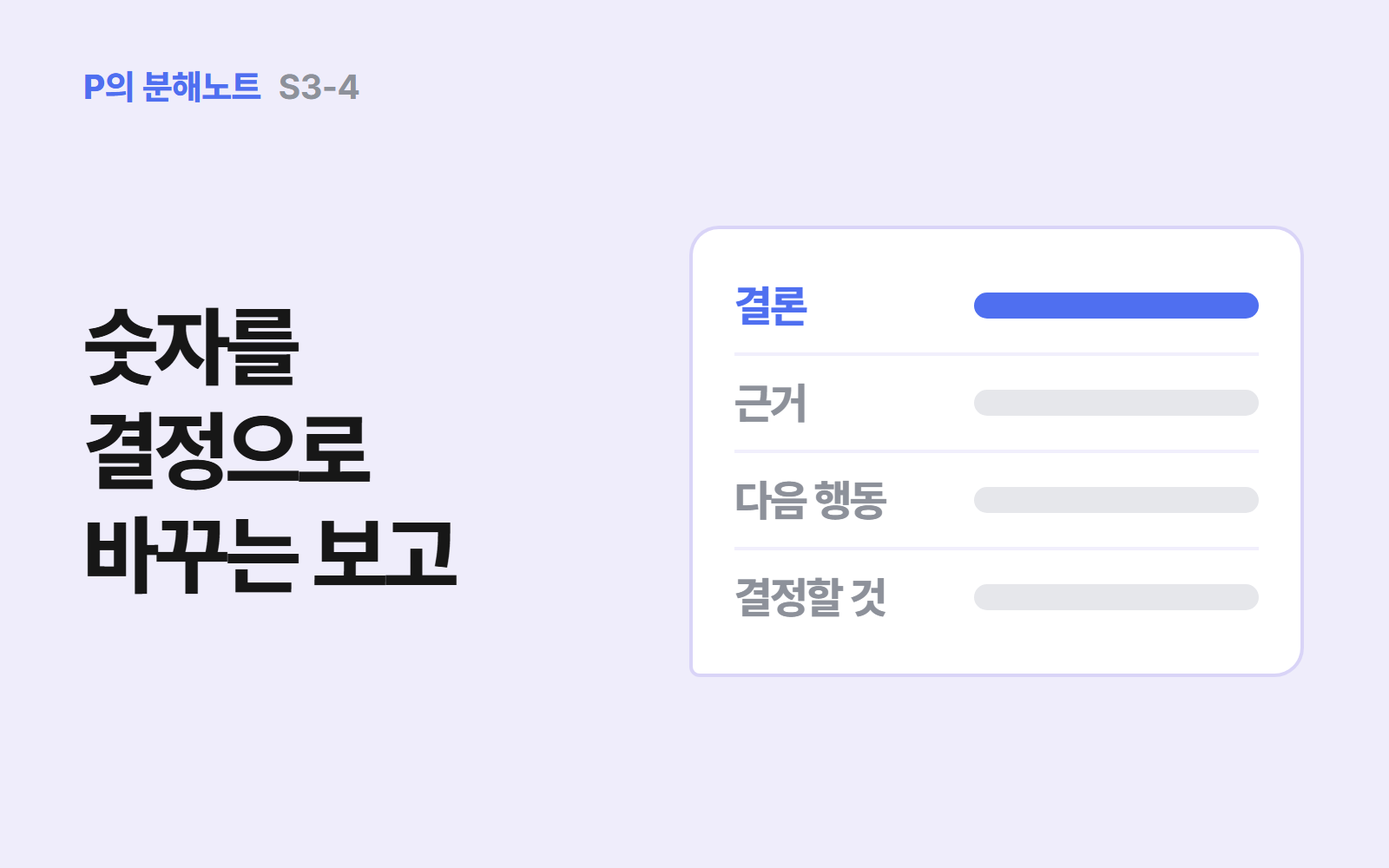
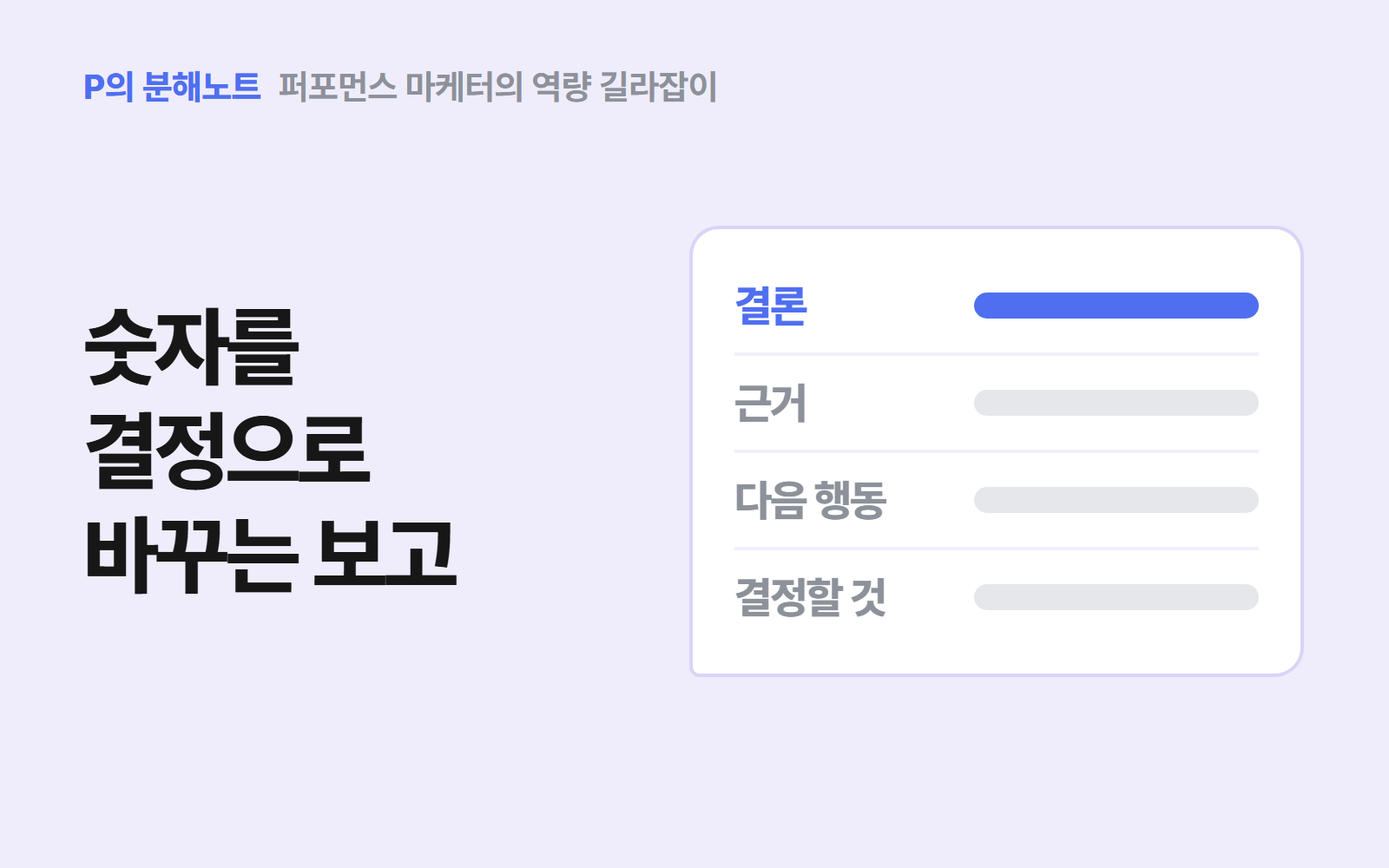
본문 링크와 표지의 편 번호(EP·S2·S3)를 글 제목과 길라잡이 이름으로 정리

Changed region(s): [[0.1875, 0.062, 0.5312, 0.124]]

diff --git a/src/content/posts/marketer-media-understanding.md b/src/content/posts/marketer-media-understanding.md
@@ -18,7 +18,7 @@ draft: false
 - 매체 기능 이름·정책은 자주 바뀜. 발행 전 공식 도움말로 한 번 더 확인
 -->
 
-[EP.02](/posts/what-does-performance-marketer-do)에서 매체 이해를 "같은 돈을 어디에 쓸지 아는 힘"이라고 했습니다. 이번 글에서는 그 힘을 **매체의 성격, 광고가 팔리는 방식, 예산을 나누는 순서, 자동화를 다루는 법**으로 쪼갭니다.
+[퍼포먼스 마케터가 하는 일](/posts/what-does-performance-marketer-do)에서 매체 이해를 "같은 돈을 어디에 쓸지 아는 힘"이라고 했습니다. 이번 글에서는 그 힘을 **매체의 성격, 광고가 팔리는 방식, 예산을 나누는 순서, 자동화를 다루는 법**으로 쪼갭니다.
 
 <!-- [P] 처음 맡은 매체와, 그 매체에서 가장 헷갈렸던 것 한두 문장. -->
 
@@ -34,11 +34,11 @@ draft: false
 | 동영상 | 유튜브 | 콘텐츠를 볼 때 | 제품 이해, 기억 남기기 | 클릭 기준으로만 재면 저평가 |
 | 디스플레이 | 구글 디스플레이, 카카오 | 다른 페이지를 볼 때 | 리타겟팅, 넓은 노출 | 노출 위치와 유입 품질 확인 |
 
-[S2-1](/posts/ad-agency-market-structure)에서 본 것처럼, 같은 매체 안에서도 **경매형 상품**과 **보장형 상품**(정해진 노출·자리를 사는 것)은 사는 방식이 다릅니다.
+[광고대행사와 미디어렙의 구조](/posts/ad-agency-market-structure)에서 본 것처럼, 같은 매체 안에서도 **경매형 상품**과 **보장형 상품**(정해진 노출·자리를 사는 것)은 사는 방식이 다릅니다.
 
 ## 기본 2. 광고는 경매와 과금 방식으로 팔린다
 
-대부분의 퍼포먼스 광고는 경매로 노출이 정해집니다. 핵심은 **입찰가만 높다고 이기지 않는다**는 점입니다. 매체는 입찰가와 함께 "이 광고를 보여 주면 사람들이 반응할까"를 같이 봅니다. 그래서 반응이 좋은 광고는 같은 입찰가로도 더 싸게, 더 많이 노출됩니다. 경매가 어떻게 돌아가는지는 [EP.04](/posts/will-ai-replace-performance-marketer)에서 더 자세히 다뤘습니다.
+대부분의 퍼포먼스 광고는 경매로 노출이 정해집니다. 핵심은 **입찰가만 높다고 이기지 않는다**는 점입니다. 매체는 입찰가와 함께 "이 광고를 보여 주면 사람들이 반응할까"를 같이 봅니다. 그래서 반응이 좋은 광고는 같은 입찰가로도 더 싸게, 더 많이 노출됩니다. 경매가 어떻게 돌아가는지는 [AI 시대의 퍼포먼스 마케터](/posts/will-ai-replace-performance-marketer)에서 더 자세히 다뤘습니다.
 
 돈을 내는 기준도 상품마다 다릅니다.
 
@@ -53,7 +53,7 @@ draft: false
 
 ## 기본 3. 계정 구조가 곧 운영 단위다
 
-캠페인, 광고그룹(광고 세트), 광고의 세 층으로 나뉘고, 어느 층에서 무엇을 정하는지는 매체마다 조금씩 다릅니다([EP.02](/posts/what-does-performance-marketer-do) 세팅 단계). 구조를 잘게 쪼갤수록 통제는 쉬워지지만, 묶음마다 데이터가 적어져 자동화가 배우기 어려워집니다. 반대로 크게 묶으면 자동화는 잘 배우지만 무엇이 잘됐는지 보기 어렵습니다. **보고 싶은 단위와 자동화가 배우기 좋은 크기 사이에서 균형**을 잡는 게 구조 설계입니다.
+캠페인, 광고그룹(광고 세트), 광고의 세 층으로 나뉘고, 어느 층에서 무엇을 정하는지는 매체마다 조금씩 다릅니다([퍼포먼스 마케터가 하는 일](/posts/what-does-performance-marketer-do) 세팅 단계). 구조를 잘게 쪼갤수록 통제는 쉬워지지만, 묶음마다 데이터가 적어져 자동화가 배우기 어려워집니다. 반대로 크게 묶으면 자동화는 잘 배우지만 무엇이 잘됐는지 보기 어렵습니다. **보고 싶은 단위와 자동화가 배우기 좋은 크기 사이에서 균형**을 잡는 게 구조 설계입니다.
 
 ## 실전 1. 매체를 고르고 예산을 나누는 순서
 
@@ -69,18 +69,18 @@ draft: false
 
 요즘 매체 운영의 많은 부분은 자동 입찰과 자동 타깃팅입니다. 사람이 할 일은 **자동화에 좋은 재료를 주고, 결과를 검증하는 것**입니다.
 
-- **좋은 신호를 준다**: 자동화는 우리가 "전환"이라고 알려 준 것을 늘립니다. 가짜 전환(중복, 장바구니 오분류)이 섞이면 그쪽을 늘립니다. ([EP.04](/posts/will-ai-replace-performance-marketer)의 장바구니 사례)
+- **좋은 신호를 준다**: 자동화는 우리가 "전환"이라고 알려 준 것을 늘립니다. 가짜 전환(중복, 장바구니 오분류)이 섞이면 그쪽을 늘립니다. ([AI 시대의 퍼포먼스 마케터](/posts/will-ai-replace-performance-marketer)의 장바구니 사례)
 - **목표를 급하게 바꾸지 않는다**: 목표 CPA나 예산을 한 번에 크게 바꾸면 다시 학습에 들어갈 수 있습니다. 조금씩, 간격을 두고 바꿉니다.
 - **너무 잘게 쪼개지 않는다**: 묶음마다 전환이 너무 적으면 자동화가 배울 데이터가 부족합니다.
 - **제외할 것을 정한다**: 이미 산 고객, 브랜드 검색어, 원하지 않는 노출 위치처럼 자동화에 맡기면 안 되는 범위를 사람이 정합니다.
 
 ## 심화 1. 매체가 보고하는 숫자를 그대로 믿지 않는다
 
-매체는 자기 광고를 본 뒤 생긴 전환을 넓게 셉니다. 그래서 매체 숫자를 다 더하면 실제 주문보다 많아지는 일이 흔합니다. 매체 숫자는 **매체 안에서 비교할 때** 쓰고, 매체끼리 예산을 나눌 때는 GA4나 주문 데이터, 증분 테스트를 함께 봅니다. 왜 숫자가 다른지는 [S2-4](/posts/why-ad-numbers-differ)에서 정리했습니다.
+매체는 자기 광고를 본 뒤 생긴 전환을 넓게 셉니다. 그래서 매체 숫자를 다 더하면 실제 주문보다 많아지는 일이 흔합니다. 매체 숫자는 **매체 안에서 비교할 때** 쓰고, 매체끼리 예산을 나눌 때는 GA4나 주문 데이터, 증분 테스트를 함께 봅니다. 왜 숫자가 다른지는 [GA4와 매체 전환 수가 다른 이유](/posts/why-ad-numbers-differ)에서 정리했습니다.
 
 ## 심화 2. 예산을 늘리면 효율은 떨어진다
 
-같은 매체에 돈을 두 배로 써도 전환이 두 배가 되지는 않습니다. 반응이 좋은 사람부터 먼저 만나기 때문에, 예산이 늘수록 **다음 1만 원이 데려오는 전환은 줄어듭니다**. 같은 사람에게 광고가 반복되는 빈도도 올라갑니다. 그래서 예산을 옮길 때는 평균 CPA가 아니라 **늘린 돈으로 늘어난 전환**을 봅니다. 계산 예시는 [S3-5 사업 이해 편](/posts/marketer-business-sense)에 있습니다.
+같은 매체에 돈을 두 배로 써도 전환이 두 배가 되지는 않습니다. 반응이 좋은 사람부터 먼저 만나기 때문에, 예산이 늘수록 **다음 1만 원이 데려오는 전환은 줄어듭니다**. 같은 사람에게 광고가 반복되는 빈도도 올라갑니다. 그래서 예산을 옮길 때는 평균 CPA가 아니라 **늘린 돈으로 늘어난 전환**을 봅니다. 계산 예시는 [사업 이해 편](/posts/marketer-business-sense)에 있습니다.
 
 ## 심화 3. 매체끼리 역할을 나눠 맡는다
 
@@ -111,4 +111,4 @@ draft: false
 
 다음 편에서는 무엇을 바꿔 볼지 정하는 **기획**을 쪼갭니다. 가설을 세우고, 테스트하고, 성과를 재는 방법입니다.
 
-→ [S3-3 퍼포먼스 마케팅 기획, 가설부터 성과 측정까지](/posts/marketing-hypothesis-testing)
+→ [퍼포먼스 마케팅 기획, 가설부터 성과 측정까지](/posts/marketing-hypothesis-testing)

diff --git a/src/content/posts/marketer-business-sense.md b/src/content/posts/marketer-business-sense.md
@@ -17,7 +17,7 @@ draft: false
 - 모든 숫자는 설명용 예시
 -->
 
-[EP.02](/posts/what-does-performance-marketer-do)에서 "같은 ROAS 300%라도 마진이 높으면 성공이고, 낮으면 손해일 수 있다"고 했습니다. 이번 글에서는 그 문장을 계산으로 쪼갭니다. **한 건에 얼마가 남는지 → 손익분기 → 고객 전체의 가치 → 업종별 차이 → 예산 규모**까지 갑니다.
+[퍼포먼스 마케터가 하는 일](/posts/what-does-performance-marketer-do)에서 "같은 ROAS 300%라도 마진이 높으면 성공이고, 낮으면 손해일 수 있다"고 했습니다. 이번 글에서는 그 문장을 계산으로 쪼갭니다. **한 건에 얼마가 남는지 → 손익분기 → 고객 전체의 가치 → 업종별 차이 → 예산 규모**까지 갑니다.
 
 <!-- [P] 광고 화면의 숫자는 좋았는데 사업 쪽에서는 좋지 않았던 장면. (광고주 가명, 숫자는 %나 지수로) -->
 
@@ -54,7 +54,7 @@ draft: false
 
 > **예시 상황.** 신규 고객 CPA가 3만 원이고 주문당 공헌이익이 2만 원이면, 첫 구매에서 1만 원 손해입니다. 그런데 이 고객들이 6개월 안에 평균 한 번 더 산다면 공헌이익 2만 원이 더 들어와, 6개월 기준으로는 1만 원 이익입니다. 이 경우 신규 고객 목표 CPA는 2만 원이 아니라 3만 원 언저리까지 잡을 수 있습니다. (설명을 위한 예시 숫자)
 
-다만 재구매는 **실제 데이터로 확인한 것만** 씁니다. 기대만으로 목표 CPA를 올리면 손해가 커집니다. 재구매는 [S3-1](/posts/marketer-data-analysis)의 코호트로 확인합니다.
+다만 재구매는 **실제 데이터로 확인한 것만** 씁니다. 기대만으로 목표 CPA를 올리면 손해가 커집니다. 재구매는 [데이터 분석 편](/posts/marketer-data-analysis)의 코호트로 확인합니다.
 
 ## 기본 3. 업종마다 보는 사업 숫자가 다르다
 
@@ -72,7 +72,7 @@ draft: false
 1. **손익분기를 계산한다**: 공헌이익, 손익분기 CPA·ROAS.
 2. **재구매를 더할지 정한다**: 실제 재구매 데이터가 있을 때만.
 3. **회사의 지금 목표를 확인한다**: 이익을 남길 때인지, 손해를 감수하고 고객을 늘릴 때인지. 같은 숫자로도 목표가 달라집니다.
-4. **고객 단계별로 나눈다**: 신규 유입과 리타겟팅의 목표를 따로 둡니다. ([S3-2](/posts/marketer-media-understanding))
+4. **고객 단계별로 나눈다**: 신규 유입과 리타겟팅의 목표를 따로 둡니다. ([매체 이해 편](/posts/marketer-media-understanding))
 5. **정기적으로 다시 계산한다**: 원가, 배송비, 할인 정책이 바뀌면 손익분기도 바뀝니다.
 
 ## 실전 2. 광고 밖 변수를 달력에 올린다
@@ -90,7 +90,7 @@ draft: false
 
 ## 심화 1. 예산 규모는 '늘린 돈의 CPA'로 정한다
 
-예산을 늘리면 효율이 떨어집니다([S3-2](/posts/marketer-media-understanding)). 그래서 평균 CPA가 아니라 **늘린 돈으로 늘어난 전환의 CPA(한계 CPA)**를 봅니다. (손익분기 CPA 4만 원인 상품의 예시)
+예산을 늘리면 효율이 떨어집니다([매체 이해 편](/posts/marketer-media-understanding)). 그래서 평균 CPA가 아니라 **늘린 돈으로 늘어난 전환의 CPA(한계 CPA)**를 봅니다. (손익분기 CPA 4만 원인 상품의 예시)
 
 | 월 예산 | 전환 | 평균 CPA | 늘린 돈의 CPA |
 |---|---|---|---|
@@ -102,7 +102,7 @@ draft: false
 
 ## 심화 2. 어차피 샀을 사람은 빼고 본다
 
-브랜드 이름을 검색한 사람, 장바구니에 담아 둔 사람은 광고가 없어도 살 가능성이 높습니다. 이런 광고는 ROAS가 높게 나오지만, 광고가 **새로 만든** 매출은 생각보다 작을 수 있습니다. 광고가 없었을 때와 비교한 증분 이익은 [S2-4](/posts/why-ad-numbers-differ)의 증분 측정으로 확인합니다.
+브랜드 이름을 검색한 사람, 장바구니에 담아 둔 사람은 광고가 없어도 살 가능성이 높습니다. 이런 광고는 ROAS가 높게 나오지만, 광고가 **새로 만든** 매출은 생각보다 작을 수 있습니다. 광고가 없었을 때와 비교한 증분 이익은 [GA4와 매체 전환 수가 다른 이유](/posts/why-ad-numbers-differ)의 증분 측정으로 확인합니다.
 
 ## 심화 3. 재무 쪽 말을 알아 둔다
 
@@ -125,14 +125,14 @@ draft: false
 
 ## 혼자 연습하는 법
 
-관심 있는 쇼핑몰 상품 하나를 골라 가격을 보고, 원가율과 배송비를 어림해(예: 원가 40%, 변동비 15%) 공헌이익률과 손익분기 ROAS를 계산해 봅니다. 그다음 "이 상품을 광고한다면 목표 CPA는 얼마로 잡을까"를 근거와 함께 세 줄로 씁니다. [EP.05](/posts/performance-marketer-job-prep)의 가상 광고주 연습과 이어서 하면 좋습니다.
+관심 있는 쇼핑몰 상품 하나를 골라 가격을 보고, 원가율과 배송비를 어림해(예: 원가 40%, 변동비 15%) 공헌이익률과 손익분기 ROAS를 계산해 봅니다. 그다음 "이 상품을 광고한다면 목표 CPA는 얼마로 잡을까"를 근거와 함께 세 줄로 씁니다. [신입 퍼포먼스 마케터의 취업 준비](/posts/performance-marketer-job-prep)의 가상 광고주 연습과 이어서 하면 좋습니다.
 
 <!-- [P] 마진·재고·반품 같은 광고 밖 숫자를 알고 나서 바뀐 판단 하나. (광고주 가명, 숫자는 %나 지수로) -->
 
 ## 역량 쪼개 보기를 마치며
 
-EP.02의 다섯 역량을 하나씩 쪼개 봤습니다. 다섯 가지는 따로 놀지 않습니다. **사업 이해로 목표를 정하고, 기획으로 가설을 세우고, 매체 이해로 실행하고, 데이터 분석으로 결과를 읽고, 커뮤니케이션으로 결정을 이끄는** 한 바퀴입니다.
+[퍼포먼스 마케터가 하는 일](/posts/what-does-performance-marketer-do)에서 정리한 다섯 역량을 하나씩 쪼개 봤습니다. 다섯 가지는 따로 놀지 않습니다. **사업 이해로 목표를 정하고, 기획으로 가설을 세우고, 매체 이해로 실행하고, 데이터 분석으로 결과를 읽고, 커뮤니케이션으로 결정을 이끄는** 한 바퀴입니다.
 
 처음으로 돌아가 다섯 역량의 요약을 다시 보고 싶다면 여기서 시작하면 됩니다.
 
-→ [EP.02 퍼포먼스 마케터는 무슨 일을 할까?](/posts/what-does-performance-marketer-do)
+→ [퍼포먼스 마케터는 무슨 일을 할까?](/posts/what-does-performance-marketer-do)

diff --git a/src/content/posts/marketer-communication.md b/src/content/posts/marketer-communication.md
@@ -17,7 +17,7 @@ draft: false
 - 예시 메시지는 모두 가상. 실제 광고주와 주고받은 문장을 그대로 옮기지 않기
 -->
 
-[EP.02](/posts/what-does-performance-marketer-do)에서 커뮤니케이션을 "숫자를 결정으로 바꾸는 힘"이라고 했습니다. 말을 잘하는 능력이라기보다 **구조**에 가깝다고도 했습니다. 이번 글에서는 그 구조를 **요청 받기, 결과 전하기, 협업 요청하기, 설득하기**로 쪼갭니다.
+[퍼포먼스 마케터가 하는 일](/posts/what-does-performance-marketer-do)에서 커뮤니케이션을 "숫자를 결정으로 바꾸는 힘"이라고 했습니다. 말을 잘하는 능력이라기보다 **구조**에 가깝다고도 했습니다. 이번 글에서는 그 구조를 **요청 받기, 결과 전하기, 협업 요청하기, 설득하기**로 쪼갭니다.
 
 <!-- [P] 보고를 하고 나서 "그래서 뭘 하자는 거죠?"라는 말을 들었던 장면, 혹은 그 반대로 한 번에 결정이 났던 장면. -->
 
@@ -39,7 +39,7 @@ draft: false
 
 - **목표**: 어떤 숫자가 얼마가 되면 잘된 건가요? (매출, 주문 수, 신청 수, CPA)
 - **기간과 예산**: 언제까지, 얼마로?
-- **상품과 사업 숫자**: 무엇을 팔고, 한 건에 얼마가 남나요? ([S3-5](/posts/marketer-business-sense))
+- **상품과 사업 숫자**: 무엇을 팔고, 한 건에 얼마가 남나요? ([사업 이해 편](/posts/marketer-business-sense))
 - **측정**: 무엇으로 셀까요? 전환 태그는 누가 확인하나요?
 - **제약**: 쓰면 안 되는 표현, 재고, 행사 일정, 경쟁사 언급 금지 같은 조건.
 - **결정하는 사람**: 최종 승인은 누가 하나요?
@@ -61,7 +61,7 @@ draft: false
 - **비교 기준을 붙인다**: "CPA 3만 원"보다 "CPA 3만 원, 지난주보다 20% 높고 목표보다 10% 낮음".
 - **%와 %p를 구분한다**: 전환율이 2%에서 3%가 되면 "1%p 올랐다"이고, "50% 올랐다"와는 다른 말입니다. 둘 다 맞지만 섞으면 오해가 생깁니다.
 - **건수를 같이 쓴다**: "전환율 2배"가 1건에서 2건이 된 거라면 의미가 다릅니다.
-- **기준을 밝힌다**: 매체 기준인지, GA4 기준인지, 주문 기준인지. ([S2-4](/posts/why-ad-numbers-differ))
+- **기준을 밝힌다**: 매체 기준인지, GA4 기준인지, 주문 기준인지. ([GA4와 매체 전환 수가 다른 이유](/posts/why-ad-numbers-differ))
 
 ## 실전 1. 주간 리포트를 한 장으로
 
@@ -99,7 +99,7 @@ draft: false
 | 규격과 수량 | 세로형 영상 2개 (매체 규격 첨부) |
 | 기한 | 목요일 오전, 금요일 송출 |
 
-**개발자에게 전환 태그를 요청할 때**는 무엇을, 언제, 어떤 값과 함께 보내야 하는지, 그리고 어떻게 확인할지를 같이 적습니다. "구매 완료 화면이 뜰 때 purchase 이벤트를 주문번호·결제 금액과 함께 한 번만 보내 주세요. 테스트 주문 한 건으로 같이 확인하겠습니다." ([S2-4](/posts/why-ad-numbers-differ)의 테스트 주문 확인)
+**개발자에게 전환 태그를 요청할 때**는 무엇을, 언제, 어떤 값과 함께 보내야 하는지, 그리고 어떻게 확인할지를 같이 적습니다. "구매 완료 화면이 뜰 때 purchase 이벤트를 주문번호·결제 금액과 함께 한 번만 보내 주세요. 테스트 주문 한 건으로 같이 확인하겠습니다." ([GA4와 매체 전환 수가 다른 이유](/posts/why-ad-numbers-differ)의 테스트 주문 확인)
 
 ## 심화 1. 확실한 것과 모르는 것을 나눠 말한다
 
@@ -119,7 +119,7 @@ draft: false
 | B. 예산 20% 증액 | 주문 수 증가 | CPA 상승 예상 |
 | C. 증액분을 신규 매체 시험에 | 다음 분기 성장 재료 | 첫 달 효율 낮을 수 있음 |
 
-"추천은 B입니다. 이번 달은 주문 수가 목표이고, 늘린 돈의 CPA도 손익분기 안이라고 봅니다." 이렇게 상대의 목표에서 출발해 추천하면, 상대는 근거를 따져 보고 결정만 하면 됩니다. 늘린 돈의 CPA를 계산하는 법은 [S3-5](/posts/marketer-business-sense)에 있습니다.
+"추천은 B입니다. 이번 달은 주문 수가 목표이고, 늘린 돈의 CPA도 손익분기 안이라고 봅니다." 이렇게 상대의 목표에서 출발해 추천하면, 상대는 근거를 따져 보고 결정만 하면 됩니다. 늘린 돈의 CPA를 계산하는 법은 [사업 이해 편](/posts/marketer-business-sense)에 있습니다.
 
 ## 심화 3. 다른 의견을 다룬다
 
@@ -134,7 +134,7 @@ draft: false
 
 ## 혼자 연습하는 법
 
-[S3-1 데이터 분석 편](/posts/marketer-data-analysis)에서 GA4 데모 계정으로 찾은 결과를 **세 줄 요약**으로 써 봅니다. 결론, 근거 숫자 하나, 다음 행동. 그리고 같은 내용을 "결정하는 사람용"과 "실무 담당자용"으로 두 번 써 보면, 상대에 따라 무엇을 앞에 둘지 감이 잡힙니다.
+[데이터 분석 편](/posts/marketer-data-analysis)에서 GA4 데모 계정으로 찾은 결과를 **세 줄 요약**으로 써 봅니다. 결론, 근거 숫자 하나, 다음 행동. 그리고 같은 내용을 "결정하는 사람용"과 "실무 담당자용"으로 두 번 써 보면, 상대에 따라 무엇을 앞에 둘지 감이 잡힙니다.
 
 <!-- [P] 보고 방식을 바꾸고 나서 달라진 반응 하나. (상대·광고주는 가명) -->
 
@@ -144,4 +144,4 @@ draft: false
 
 다음 편은 역량 쪼개 보기의 마지막, 광고 밖 숫자를 보는 **사업 이해**입니다.
 
-→ [S3-5 퍼포먼스 마케터의 사업 이해](/posts/marketer-business-sense)
+→ [퍼포먼스 마케터의 사업 이해](/posts/marketer-business-sense)

diff --git a/src/content/posts/performance-marketing-why.md b/src/content/posts/performance-marketing-why.md
@@ -52,7 +52,7 @@ Performance는 '해낸 정도'를 뜻합니다. 영어에서는 공연, 수행, 
 
 광고 반응을 재려는 시도는 오래됐습니다. 인터넷 이전에도 쿠폰이나 우편 주문으로 어떤 광고가 반응을 냈는지 기록했습니다. 달라진 건 **규모와 속도**입니다. 1990년대 중반 웹 배너 광고가 나오면서 광고 클릭을 바로 기록할 수 있게 됐고, 검색 광고의 클릭당 과금과 모바일·소셜 광고를 거치며 클릭 뒤의 가입·구매까지 매일 셀 수 있게 됐습니다.
 
-그래서 퍼포먼스 마케팅은 새로운 철학이라기보다 **측정 기술이 마케팅에 준 새로운 질문**에서 시작했습니다. 시기별 흐름은 [S2-3 퍼포먼스 마케팅의 역사](/posts/performance-marketing-history)에서 자세히 쪼개 봤습니다.
+그래서 퍼포먼스 마케팅은 새로운 철학이라기보다 **측정 기술이 마케팅에 준 새로운 질문**에서 시작했습니다. 시기별 흐름은 [퍼포먼스 마케팅의 역사](/posts/performance-marketing-history)에서 자세히 쪼개 봤습니다.
 
 ## 기존 마케팅과 무엇이 다를까?
 
@@ -85,7 +85,7 @@ Performance는 '해낸 정도'를 뜻합니다. 영어에서는 공연, 수행, 
 - **클릭당 비용이 올랐다면** → 광고 안을 봅니다. 경쟁이 심해졌는지, 클릭률이 떨어져 같은 노출에 돈이 더 드는지, 타깃이 너무 좁아졌는지.
 - **CVR이 떨어졌다면** → 광고 밖을 봅니다. 랜딩 페이지 오류, 가격·재고 변화, 전환 태그가 제대로 기록되는지.
 
-예를 들어 클릭당 비용은 600원 그대로인데 전환율이 3%에서 2%로 내려가면, CPA는 2만 원에서 3만 원이 됩니다(예시 숫자). 이 3만 원이 비싼지 싼지는 광고 화면만으로는 알 수 없고, 상품 한 건에 얼마가 남는지와 비교해야 합니다. 그 계산은 [EP.02](/posts/what-does-performance-marketer-do)의 기획 단계에서 이어집니다.
+예를 들어 클릭당 비용은 600원 그대로인데 전환율이 3%에서 2%로 내려가면, CPA는 2만 원에서 3만 원이 됩니다(예시 숫자). 이 3만 원이 비싼지 싼지는 광고 화면만으로는 알 수 없고, 상품 한 건에 얼마가 남는지와 비교해야 합니다. 그 계산은 [퍼포먼스 마케터가 하는 일](/posts/what-does-performance-marketer-do)의 기획 단계에서 이어집니다.
 
 퍼포먼스 마케팅의 "쪼개기"는 이 식에서 시작합니다.
 
@@ -122,4 +122,4 @@ Performance는 '해낸 정도'를 뜻합니다. 영어에서는 공연, 수행, 
 
 다음 분해에서는 이 일을 하는 **사람**을 쪼개 봅니다. 퍼포먼스 마케터는 하루 동안 실제로 무슨 일을 할까요?
 
-→ [EP.02 퍼포먼스 마케터는 무슨 일을 할까?](/posts/what-does-performance-marketer-do)
+→ [퍼포먼스 마케터는 무슨 일을 할까?](/posts/what-does-performance-marketer-do)

diff --git a/src/content/posts/performance-marketing-history.md b/src/content/posts/performance-marketing-history.md
@@ -28,7 +28,7 @@ draft: false
 | 모바일·소셜 (2010년대) | 사람 단위 타깃, 앱 안 행동까지 셈 | 누구에게 보여 줄지 고르고, 구매까지의 비용으로 판단하기 |
 | 자동화 (2010년대 말~지금) | 매체가 입찰·타깃·지면을 고름 | 무엇을 목표로 시키고 어떤 재료를 넣을지 정하기 |
 
-[EP.01](/posts/performance-marketing-why)에서 이 흐름을 한 단락으로 줄였습니다. 이번에는 시기별로 펼쳐 봅니다.
+[퍼포먼스 마케팅이란?](/posts/performance-marketing-why)에서 이 흐름을 한 단락으로 줄였습니다. 이번에는 시기별로 펼쳐 봅니다.
 
 ## 1. 클릭을 기록하다: 배너 광고 (1990년대)
 
@@ -58,7 +58,7 @@ draft: false
 
 ## 4. 매체가 대신 고르다: 자동화 (2010년대 말~지금)
 
-머신러닝이 매체 안으로 들어오면서, 사람이 하던 입찰·타깃·지면 선택을 매체가 맡기 시작했습니다. 구글의 실적 최대화(PMax), 메타의 어드밴티지+ 같은 방식이 대표적입니다. 사람이 목표와 재료를 주면, 매체가 나머지를 고릅니다. 이 단계에서 사람의 일이 어떻게 바뀌었는지는 [EP.04](/posts/will-ai-replace-performance-marketer)에서 다뤘습니다.
+머신러닝이 매체 안으로 들어오면서, 사람이 하던 입찰·타깃·지면 선택을 매체가 맡기 시작했습니다. 구글의 실적 최대화(PMax), 메타의 어드밴티지+ 같은 방식이 대표적입니다. 사람이 목표와 재료를 주면, 매체가 나머지를 고릅니다. 이 단계에서 사람의 일이 어떻게 바뀌었는지는 [AI 시대의 퍼포먼스 마케터](/posts/will-ai-replace-performance-marketer)에서 다뤘습니다.
 
 같은 시기에 브라우저와 운영체제가 사이트·앱을 넘나드는 추적을 더 강하게 막기 시작했습니다. 이 이야기는 다음 편에서 이어집니다.
 
@@ -76,4 +76,4 @@ draft: false
 
 시기마다 기술이 바뀌었지만, 질문은 하나로 이어집니다. **"이 광고는 무엇을 해냈나?"** 퍼포먼스 마케팅은 그 질문에 답하는 방법이 바뀌어 온 역사입니다.
 
-→ [S2-4 GA4와 광고 매체 전환 수는 왜 다를까?](/posts/why-ad-numbers-differ)
+→ [GA4와 광고 매체 전환 수는 왜 다를까?](/posts/why-ad-numbers-differ)

diff --git a/src/content/posts/why-ad-numbers-differ.md b/src/content/posts/why-ad-numbers-differ.md
@@ -24,7 +24,7 @@ draft: false
 
 집계가 고장 난 게 아니라면, 대부분은 **세는 규칙이 다를 뿐**입니다. 그리고 최근 몇 년 사이에는 개인정보 보호가 강해지면서, 사이트와 앱을 넘나드는 추적 자체가 더 어려워졌습니다.
 
-[S2-3](/posts/performance-marketing-history)에서 퍼포먼스 마케팅을 "셀 수 있는 범위가 넓어진 역사"로 봤습니다. 이번 편은 그 범위에 **브라우저와 운영체제가 제동을 걸기 시작한 이야기**입니다.
+[퍼포먼스 마케팅의 역사](/posts/performance-marketing-history)에서 퍼포먼스 마케팅을 "셀 수 있는 범위가 넓어진 역사"로 봤습니다. 이번 편은 그 범위에 **브라우저와 운영체제가 제동을 걸기 시작한 이야기**입니다.
 
 <!-- [P] 리포트에서 매체 숫자와 GA4 숫자가 안 맞아 광고주에게 설명해야 했던 장면. (광고주 가명) -->
 
@@ -159,7 +159,7 @@ GA4에서 지금 고를 수 있는 모델은 세 가지입니다([GA4 기여 모
 
 GA4와 매체 숫자가 다른 건 대부분 **세는 규칙이 달라서**입니다. 여기에 개인정보 보호가 강해지면서 **사이트·앱을 넘나드는 추적이 어려워졌고**, 매체는 서버 전송과 모델링으로 그 빈자리를 채우고 있습니다.
 
-그래서 측정이 어려워질수록, [EP.01](/posts/performance-marketing-why)에서 말한 것처럼 **숫자를 제대로 읽고 설명하는 사람의 몫**은 오히려 커집니다.
+그래서 측정이 어려워질수록, [퍼포먼스 마케팅이란?](/posts/performance-marketing-why)에서 말한 것처럼 **숫자를 제대로 읽고 설명하는 사람의 몫**은 오히려 커집니다.
 
 매체·GA4의 공식 도움말과 통계 자료는 [퍼포먼스 마케터가 참고하는 자료 총정리](/posts/performance-marketer-resources)에 모아 두었습니다.
 
